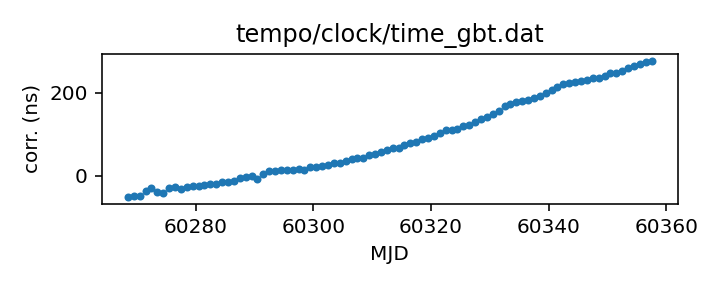
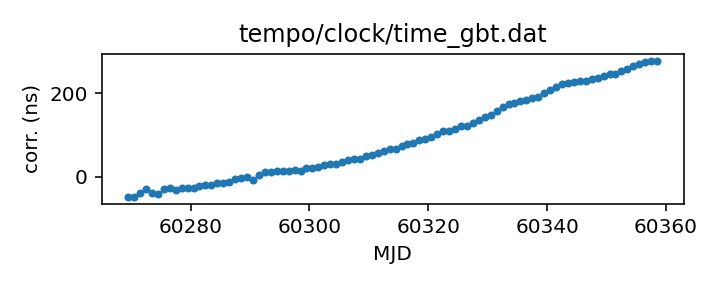
Routine gh-pages update from Github action Mon Feb 19 20:30:06 UTC 2024

diff --git a/status.md b/status.md
@@ -13,17 +13,17 @@ name of each clock file links to a page with more details.
 
 | Name | File | Corrections start | Corrections end | Last check date | Last check result 
 |:--- |:--- | --- | --- | --- |:--- 
-| [GPS to UTC](T2runtime/clock/gps2utc.clk.html) | `T2runtime/clock/gps2utc.clk` | 1993-01-01 MJD 48988.0 | 2024-01-30 MJD 60339.0 | 2024-02-18 | Unchanged 
-| [GPS to UTC (Combined Clock)](T2runtime/clock/gps2utc_cc.clk.html) | `T2runtime/clock/gps2utc_cc.clk` | 1993-01-01 MJD 48988.0 | 2024-01-30 MJD 60339.0 | 2024-02-18 | Unchanged 
-| [GPS to UTC (Corrected)](T2runtime/clock/gps2utc_c0p.clk.html) | `T2runtime/clock/gps2utc_c0p.clk` | 2010-12-29 MJD 55559.0 | 2024-01-30 MJD 60339.0 | 2024-02-18 | Unchanged 
-| [GBT](tempo/clock/time_gbt.dat.html) | `tempo/clock/time_gbt.dat` | 2000-12-31 MJD 51909.5 | 2024-02-17 MJD 60357.5 | 2024-02-18 | Updated 
-| [GBT (TEMPO2 converted from TEMPO)](T2runtime/clock/gbt2gps.clk.html) | `T2runtime/clock/gbt2gps.clk` | 2000-12-31 MJD 51909.5 | 2023-03-20 MJD 60023.5 | 2024-02-18 | **Validation failed** 
+| [GPS to UTC](T2runtime/clock/gps2utc.clk.html) | `T2runtime/clock/gps2utc.clk` | 1993-01-01 MJD 48988.0 | 2024-01-30 MJD 60339.0 | 2024-02-19 | Unchanged 
+| [GPS to UTC (Combined Clock)](T2runtime/clock/gps2utc_cc.clk.html) | `T2runtime/clock/gps2utc_cc.clk` | 1993-01-01 MJD 48988.0 | 2024-01-30 MJD 60339.0 | 2024-02-19 | Unchanged 
+| [GPS to UTC (Corrected)](T2runtime/clock/gps2utc_c0p.clk.html) | `T2runtime/clock/gps2utc_c0p.clk` | 2010-12-29 MJD 55559.0 | 2024-01-30 MJD 60339.0 | 2024-02-19 | Unchanged 
+| [GBT](tempo/clock/time_gbt.dat.html) | `tempo/clock/time_gbt.dat` | 2000-12-31 MJD 51909.5 | 2024-02-18 MJD 60358.5 | 2024-02-19 | Updated 
+| [GBT (TEMPO2 converted from TEMPO)](T2runtime/clock/gbt2gps.clk.html) | `T2runtime/clock/gbt2gps.clk` | 2000-12-31 MJD 51909.5 | 2023-03-20 MJD 60023.5 | 2024-02-19 | **Validation failed** 
 | [Jodrell Bank](T2runtime/clock/jb2gps.clk.html) | `T2runtime/clock/jb2gps.clk` | 2006-10-13 MJD 54021.4 | 2023-12-04 MJD 60282.0 | 2024-02-15 | Unchanged 
 | [Jodrell Bank Roach](T2runtime/clock/jbroach2jb.clk.html) | `T2runtime/clock/jbroach2jb.clk` | 2006-10-13 MJD 54021.4 | 2018-03-20 MJD 58197.6 | 2024-02-15 | Unchanged 
 | [Jodrell Bank DFB](T2runtime/clock/jbdfb2jb.clk.html) | `T2runtime/clock/jbdfb2jb.clk` | 2006-10-13 MJD 54021.4 | 2017-05-11 MJD 57884.0 | 2024-02-15 | Unchanged 
 | [Meerkat (observatory)](T2runtime/clock/mk2utc_observatory.clk.html) | `T2runtime/clock/mk2utc_observatory.clk` | 2019-01-01 MJD 58484.0 | 2024-01-31 MJD 60341.0 | 2024-02-15 | Unchanged 
-| [Leap seconds](tempo/clock/leap.sec.html) | `tempo/clock/leap.sec` | 1972-07-01 MJD 41499.0 | 2017-01-01 MJD 57754.0 | 2024-02-18 | Unchanged 
-| [UT1 table](tempo/clock/ut1.dat.html) | `tempo/clock/ut1.dat` | 1973-01-02 MJD 41684.0 | 2025-02-22 MJD 60728.0 | 2024-02-18 | Unchanged 
+| [Leap seconds](tempo/clock/leap.sec.html) | `tempo/clock/leap.sec` | 1972-07-01 MJD 41499.0 | 2017-01-01 MJD 57754.0 | 2024-02-19 | Unchanged 
+| [UT1 table](tempo/clock/ut1.dat.html) | `tempo/clock/ut1.dat` | 1973-01-02 MJD 41684.0 | 2025-02-22 MJD 60728.0 | 2024-02-19 | Unchanged 
 
 
 
@@ -81,7 +81,7 @@ name of each clock file links to a page with more details.
 | [Effelsberg Asterix/PSRix](T2runtime/clock/effix2gps.clk.html) | `T2runtime/clock/effix2gps.clk` | 2011-01-01 MJD 55562.5 | 2021-03-21 MJD 59294.5 | 2024-02-15 | Unchanged 
 | [LEAP](T2runtime/clock/leap2effix.clk.html) | `T2runtime/clock/leap2effix.clk` | 2012-10-29 MJD 56230.0 | 2014-03-04 MJD 56720.0 | 2024-02-15 | Unchanged 
 | [NUPPI](tempo/clock/time_nuppi.dat.html) | `tempo/clock/time_nuppi.dat` | 2005-03-07 MJD 53436.0 | 2015-11-08 MJD 57334.6 | 2024-02-15 | Unchanged 
-| [Meerkat (TEMPO2)](T2runtime/clock/mk2utc.clk.html) | `T2runtime/clock/mk2utc.clk` | 2019-01-01 MJD 58484.0 | 2023-10-18 MJD 60235.9 | 2024-02-12 | Unchanged 
+| [Meerkat (TEMPO2)](T2runtime/clock/mk2utc.clk.html) | `T2runtime/clock/mk2utc.clk` | 2019-01-01 MJD 58484.0 | 2023-10-18 MJD 60235.9 | 2024-02-19 | Unchanged 
 | [MOST](T2runtime/clock/mo2gps.clk.html) | `T2runtime/clock/mo2gps.clk` | 2003-12-27 MJD 53000.0 | 2018-09-06 MJD 58367.0 | 2024-02-15 | Unchanged 
 | [Nancay to obspm](T2runtime/clock/ncyobs2obspm.clk.html) | `T2runtime/clock/ncyobs2obspm.clk` | 1988-05-18 MJD 47299.6 | 2023-10-27 MJD 60244.0 | 2024-02-14 | Unchanged 
 | [obspm](T2runtime/clock/obspm2gps.clk.html) | `T2runtime/clock/obspm2gps.clk` | 2003-12-01 MJD 52974.0 | 2023-10-27 MJD 60244.0 | 2024-02-14 | Unchanged 

diff --git a/tempo/clock/time_gbt.dat.md b/tempo/clock/time_gbt.dat.md
@@ -31,14 +31,13 @@ If questions arise, contact Ryan S. Lynch <rlynch@nrao.edu>.
 | Format | tempo |
 | Bogus last correction | False |
 | Clock file start | 2000-12-31 MJD 51909.5 |
-| Clock file end | 2024-02-17 MJD 60357.5 |
+| Clock file end | 2024-02-18 MJD 60358.5 |
 | Update interval (days) | 1 |
-| Last update attempt | 2024-02-18 |
+| Last update attempt | 2024-02-19 |
 | Last update result | Updated |
 
 Log entries from the last few update attempts:
 ```
-2024-02-09 20:29:44.388 - Validation failed: New version of tempo/clock/time_gbt.dat clock corrections differ from old version where they overlap in 11 places
 2024-02-10 20:29:46.533 - Validation failed: New version of tempo/clock/time_gbt.dat clock corrections differ from old version where they overlap in 11 places
 2024-02-11 20:29:38.960 - Validation failed: New version of tempo/clock/time_gbt.dat clock corrections differ from old version where they overlap in 11 places
 2024-02-12 20:29:41.143 - Validation failed: New version of tempo/clock/time_gbt.dat clock corrections differ from old version where they overlap in 11 places
@@ -48,6 +47,7 @@ Log entries from the last few update attempts:
 2024-02-16 20:29:21.847 - Updated
 2024-02-17 20:29:43.530 - Updated
 2024-02-18 20:29:28.187 - Updated
+2024-02-19 20:29:35.843 - Updated
 ```
 [Full log](https://raw.githubusercontent.com/ipta/pulsar-clock-corrections/main/log/tempo/clock/time_gbt.dat.log)
 

diff --git a/T2runtime/clock/gbt2gps.clk.md b/T2runtime/clock/gbt2gps.clk.md
@@ -25,12 +25,11 @@ If questions arise about the conversion, contact Anne Archibald
 | Clock file start | 2000-12-31 MJD 51909.5 |
 | Clock file end | 2023-03-20 MJD 60023.5 |
 | Update interval (days) | 1 |
-| Last update attempt | 2024-02-18 |
+| Last update attempt | 2024-02-19 |
 | Last update result | Validation failed |
 
 Log entries from the last few update attempts:
 ```
-2023-03-16 20:29:06.397 - Updated
 2023-03-17 20:28:55.154 - Updated
 2023-03-18 20:27:22.729 - Updated
 2023-03-19 20:28:07.843 - Updated
@@ -40,6 +39,7 @@ Log entries from the last few update attempts:
 2024-02-16 20:29:21.900 - Validation failed: New version of T2runtime/clock/gbt2gps.clk clock corrections differ from old version where they overlap in 11 places
 2024-02-17 20:29:43.583 - Validation failed: New version of T2runtime/clock/gbt2gps.clk clock corrections differ from old version where they overlap in 11 places
 2024-02-18 20:29:28.240 - Validation failed: New version of T2runtime/clock/gbt2gps.clk clock corrections differ from old version where they overlap in 11 places
+2024-02-19 20:29:35.897 - Validation failed: New version of T2runtime/clock/gbt2gps.clk clock corrections differ from old version where they overlap in 11 places
 ```
 [Full log](https://raw.githubusercontent.com/ipta/pulsar-clock-corrections/main/log/T2runtime/clock/gbt2gps.clk.log)
 

diff --git a/T2runtime/clock/gps2utc_c0p.clk.md b/T2runtime/clock/gps2utc_c0p.clk.md
@@ -30,12 +30,11 @@ about the BIPM's published corrections, contact <tai@bipm.org>.
 | Clock file start | 2010-12-29 MJD 55559.0 |
 | Clock file end | 2024-01-30 MJD 60339.0 |
 | Update interval (days) | 1 |
-| Last update attempt | 2024-02-18 |
+| Last update attempt | 2024-02-19 |
 | Last update result | Unchanged |
 
 Log entries from the last few update attempts:
 ```
-2024-02-09 20:29:43.523 - Unchanged
 2024-02-10 20:29:45.638 - Unchanged
 2024-02-11 20:29:37.932 - Unchanged
 2024-02-12 20:29:40.609 - Updated
@@ -45,6 +44,7 @@ Log entries from the last few update attempts:
 2024-02-16 20:29:21.342 - Unchanged
 2024-02-17 20:29:43.015 - Unchanged
 2024-02-18 20:29:27.758 - Unchanged
+2024-02-19 20:29:34.911 - Unchanged
 ```
 [Full log](https://raw.githubusercontent.com/ipta/pulsar-clock-corrections/main/log/T2runtime/clock/gps2utc_c0p.clk.log)
 

diff --git a/T2runtime/clock/gps2utc_cc.clk.md b/T2runtime/clock/gps2utc_cc.clk.md
@@ -29,12 +29,11 @@ about the BIPM's published corrections, contact <tai@bipm.org>.
 | Clock file start | 1993-01-01 MJD 48988.0 |
 | Clock file end | 2024-01-30 MJD 60339.0 |
 | Update interval (days) | 1 |
-| Last update attempt | 2024-02-18 |
+| Last update attempt | 2024-02-19 |
 | Last update result | Unchanged |
 
 Log entries from the last few update attempts:
 ```
-2024-02-09 20:29:43.514 - Unchanged
 2024-02-10 20:29:45.630 - Unchanged
 2024-02-11 20:29:37.923 - Unchanged
 2024-02-12 20:29:40.584 - Updated
@@ -44,6 +43,7 @@ Log entries from the last few update attempts:
 2024-02-16 20:29:21.332 - Unchanged
 2024-02-17 20:29:43.006 - Unchanged
 2024-02-18 20:29:27.749 - Unchanged
+2024-02-19 20:29:34.902 - Unchanged
 ```
 [Full log](https://raw.githubusercontent.com/ipta/pulsar-clock-corrections/main/log/T2runtime/clock/gps2utc_cc.clk.log)
 

diff --git a/T2runtime/clock/gps2utc.clk.md b/T2runtime/clock/gps2utc.clk.md
@@ -32,12 +32,11 @@ about the BIPM's published corrections, contact <tai@bipm.org>.
 | Clock file start | 1993-01-01 MJD 48988.0 |
 | Clock file end | 2024-01-30 MJD 60339.0 |
 | Update interval (days) | 1 |
-| Last update attempt | 2024-02-18 |
+| Last update attempt | 2024-02-19 |
 | Last update result | Unchanged |
 
 Log entries from the last few update attempts:
 ```
-2024-02-09 20:29:43.489 - Unchanged
 2024-02-10 20:29:45.604 - Unchanged
 2024-02-11 20:29:37.896 - Unchanged
 2024-02-12 20:29:40.521 - Updated
@@ -47,6 +46,7 @@ Log entries from the last few update attempts:
 2024-02-16 20:29:21.306 - Unchanged
 2024-02-17 20:29:42.981 - Unchanged
 2024-02-18 20:29:27.724 - Unchanged
+2024-02-19 20:29:34.877 - Unchanged
 ```
 [Full log](https://raw.githubusercontent.com/ipta/pulsar-clock-corrections/main/log/T2runtime/clock/gps2utc.clk.log)
 

diff --git a/tempo/clock/leap.sec.md b/tempo/clock/leap.sec.md
@@ -21,12 +21,11 @@ If there are any questions, contact Anne Archibald
 | File start | 1972-07-01 MJD 41499.0 |
 | File end | 2017-01-01 MJD 57754.0 |
 | Update interval (days) | 0 |
-| Last update attempt | 2024-02-18 |
+| Last update attempt | 2024-02-19 |
 | Last update result | Unchanged |
 
 Log entries from the last few update attempts:
 ```
-2024-02-10 20:29:46.570 - Unchanged
 2024-02-11 20:29:38.997 - Unchanged
 2024-02-12 20:29:41.898 - Unchanged
 2024-02-13 20:30:16.403 - Unchanged
@@ -36,5 +35,6 @@ Log entries from the last few update attempts:
 2024-02-16 20:29:21.930 - Unchanged
 2024-02-17 20:29:43.612 - Unchanged
 2024-02-18 20:29:28.269 - Unchanged
+2024-02-19 20:29:36.945 - Unchanged
 ```
 [Full log](https://raw.githubusercontent.com/ipta/pulsar-clock-corrections/main/log/tempo/clock/leap.sec.log)

diff --git a/tempo/clock/ut1.dat.md b/tempo/clock/ut1.dat.md
@@ -30,12 +30,11 @@ If there are any questions, contact Anne Archibald
 | File start | 1973-01-02 MJD 41684.0 |
 | File end | 2025-02-22 MJD 60728.0 |
 | Update interval (days) | 0 |
-| Last update attempt | 2024-02-18 |
+| Last update attempt | 2024-02-19 |
 | Last update result | Unchanged |
 
 Log entries from the last few update attempts:
 ```
-2024-02-10 20:29:59.346 - Unchanged
 2024-02-11 20:29:51.932 - Unchanged
 2024-02-12 20:29:50.629 - Unchanged
 2024-02-13 20:30:24.141 - Unchanged
@@ -45,5 +44,6 @@ Log entries from the last few update attempts:
 2024-02-16 20:29:29.298 - Unchanged
 2024-02-17 20:29:52.866 - Unchanged
 2024-02-18 20:29:37.692 - Unchanged
+2024-02-19 20:29:48.013 - Unchanged
 ```
 [Full log](https://raw.githubusercontent.com/ipta/pulsar-clock-corrections/main/log/tempo/clock/ut1.dat.log)

diff --git a/T2runtime/clock/mk2utc.clk.md b/T2runtime/clock/mk2utc.clk.md
@@ -17,12 +17,11 @@ up-to-date.
 | Clock file start | 2019-01-01 MJD 58484.0 |
 | Clock file end | 2023-10-18 MJD 60235.9 |
 | Update interval (days) | 7 |
-| Last update attempt | 2024-02-12 |
+| Last update attempt | 2024-02-19 |
 | Last update result | Unchanged |
 
 Log entries from the last few update attempts:
 ```
-2023-12-11 20:29:42.878 - Unchanged
 2023-12-18 20:29:38.177 - Unchanged
 2023-12-25 20:29:52.667 - Unchanged
 2024-01-01 20:29:37.012 - Unchanged
@@ -32,6 +31,7 @@ Log entries from the last few update attempts:
 2024-01-29 20:29:41.258 - Unchanged
 2024-02-05 20:29:37.004 - Unchanged
 2024-02-12 20:29:41.883 - Unchanged
+2024-02-19 20:29:36.931 - Unchanged
 ```
 [Full log](https://raw.githubusercontent.com/ipta/pulsar-clock-corrections/main/log/T2runtime/clock/mk2utc.clk.log)
 
